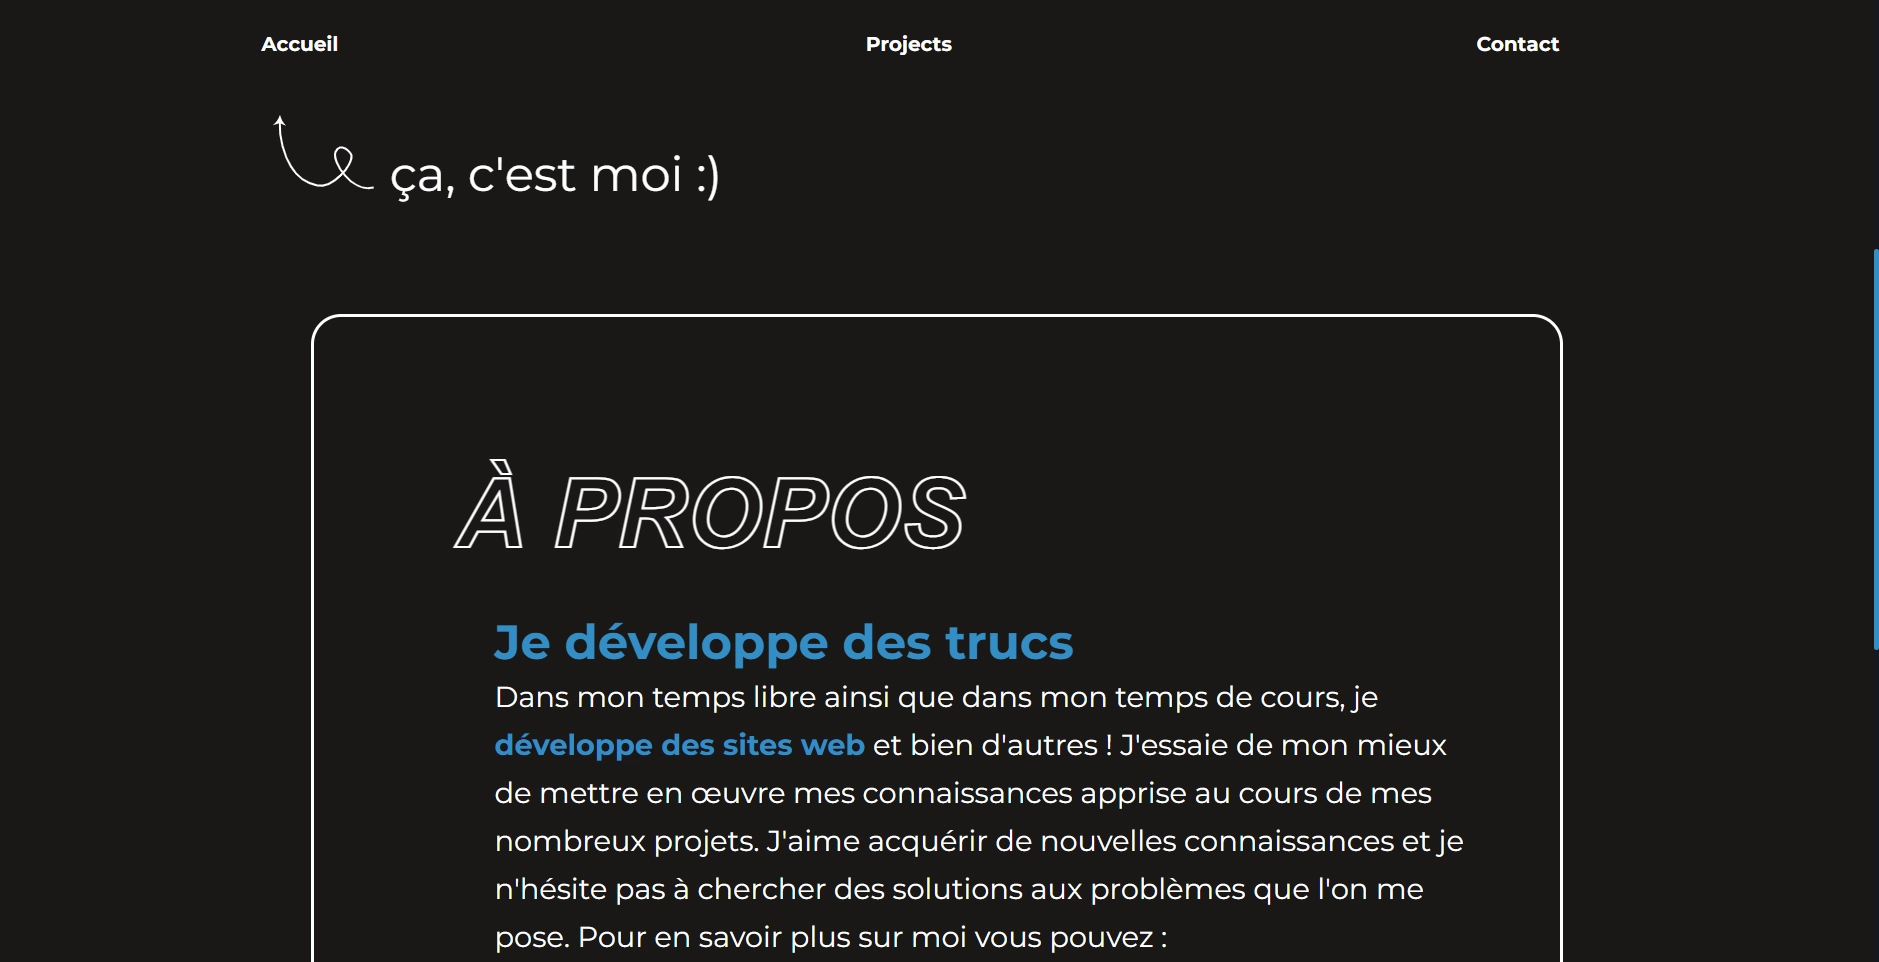
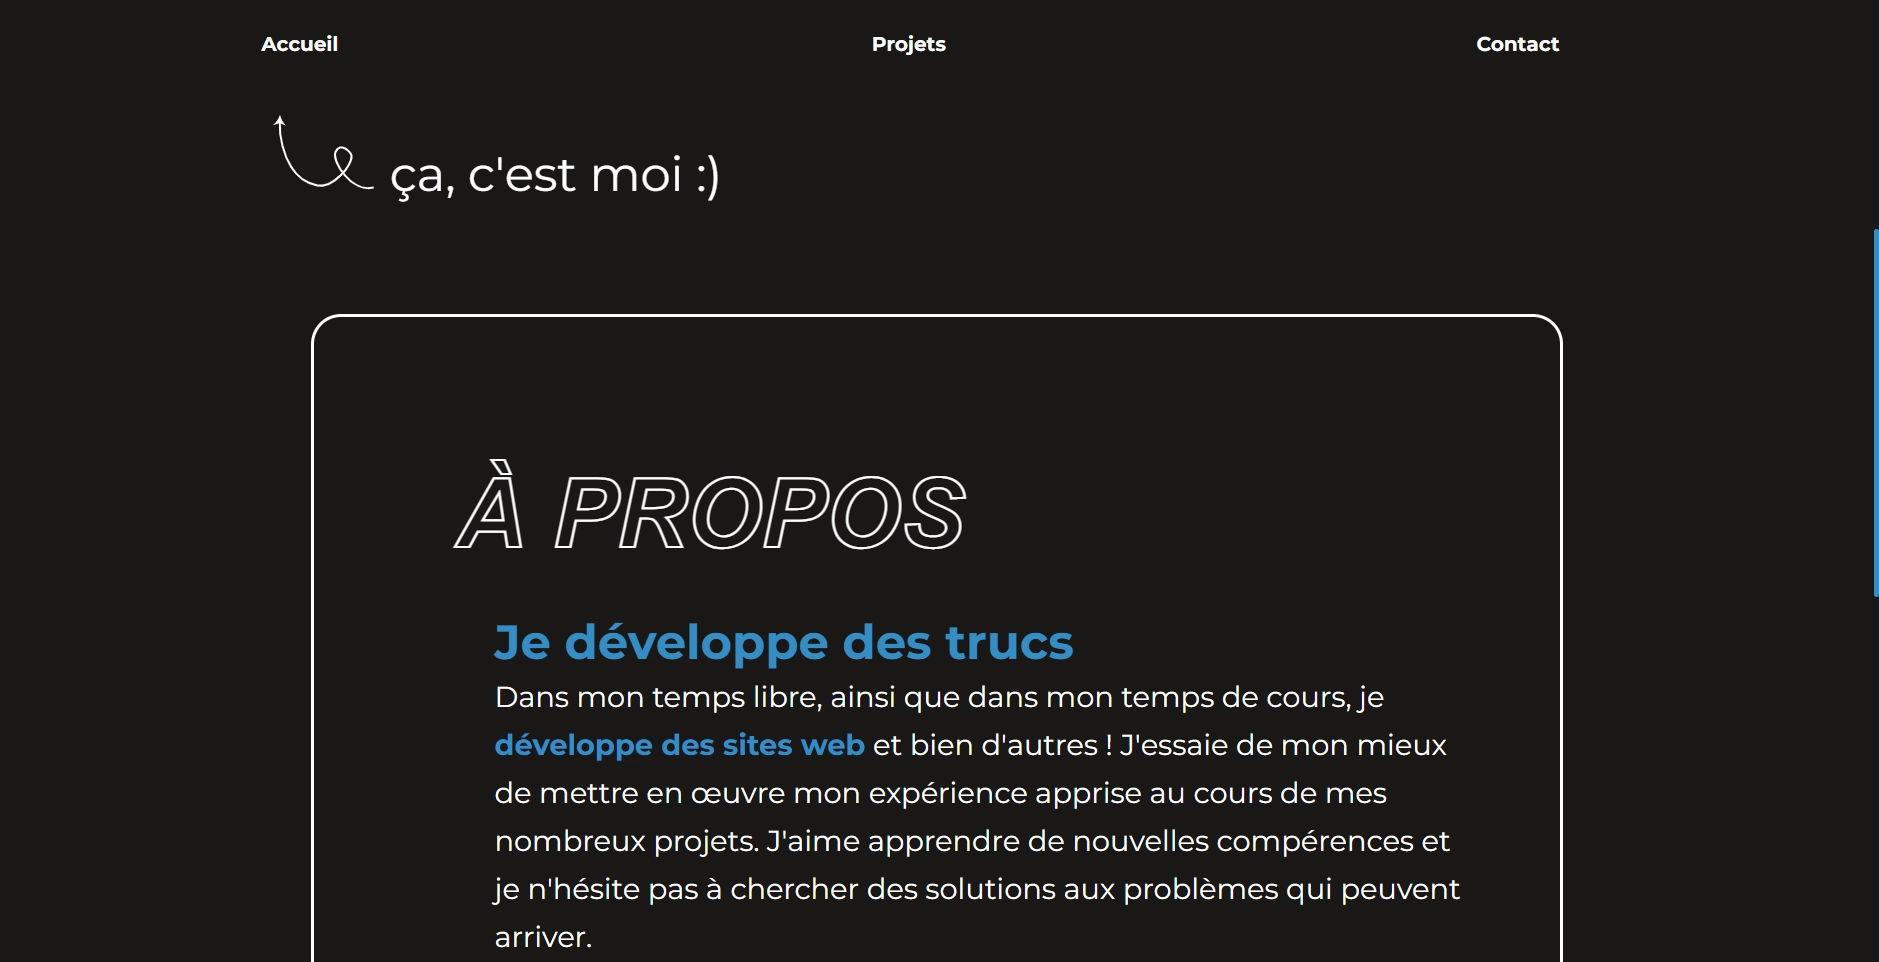
Quelques fautes corrigées

diff --git a/js/data.js b/js/data.js
@@ -1,7 +1,7 @@
 const projects = {
     "portfolio": {
         "nom": "Portfolio",
-        "desc": "Afin de montrer ce dont je suis capable en développement web, j'ai décidé de créer ce portfolio. Il est hébergé sur GitHub et est fait entièrement avec mes compétences de <span class=\"bold_color\">HTML, JS et CSS</span>. A partir d'une base de données en JavaScript, je peux récupérer les informations nécessaires pour générer des pages avec du JS afin de n'avoir qu'à créer qu'une seule page web pour tous les projets.",
+        "desc": "Afin de montrer ce dont je suis capable en développement web, j'ai décidé de créer ce portfolio. Il est hébergé sur GitHub et est fait entièrement avec mes compétences de <span class=\"bold_color\">HTML, JS et CSS</span>. A partir d'une base de données en JavaScript, je peux récupérer les informations nécessaires pour générer des pages avec du JS afin de n'avoir qu'à créer une seule page web pour tous les projets.",
         "lien": "",
         "img": "<h2 class = \"sous_titre\">Galerie</h2><div class = \"grid_gal\"><img src = \"../img/portfolio/index_capt.webp\" alt = \"Page d'accueil du site\" width = \"100%\"><img src = \"../img/portfolio/filtre_capt.webp\" alt = \"Filtrage des projets\" width = \"100%\"><img src = \"../img/portfolio/projet_capt.webp\" alt = \"Exemple d'une page de projet\" width = \"100%\"></div>",
         "link_res": "",
@@ -10,7 +10,7 @@ const projects = {
 
     "luxiemds": {
         "nom": "Light The Way • Luxiem Dating Sim",
-        "desc": "Au cours de l'été 2022 et jusqu'à fin avril 2023, je me suis portée volontaire au sein de l'équipe <span class=\"bold_color\">Simporiem Studios</span> en tant que programmeuse. Le jeu est un projet anglophone de jeu vidéo créé avec <span class=\"bold_color\">Ren'Py</span>, un moteur de jeu en langage Python. <br>Ce jeu a été pensé et initialement créé pour l'anniversaire de la mise au monde d'un groupe de talents de l'entreprise Nijisanji : Luxiem. <br>Il s'agit d'un jeu fait par des fans pour les fans.",
+        "desc": "Au cours de l'été 2022 et jusqu'à fin avril 2023, je me suis portée volontaire au sein de l'équipe <span class=\"bold_color\">Simporiem Studios</span> en tant que programmeuse. Il s'agit d'un projet anglophone de jeu vidéo créé avec <span class=\"bold_color\">Ren'Py</span>, un moteur de jeu basé sur du Python. <br>Ce jeu a été pensé et initialement créé pour le premier anniversaire d'un groupe de talents de l'entreprise Nijisanji : Luxiem. <br>Il s'agit d'un jeu fait par des fans pour les fans.",
         "lien": "<div class = \"grid_emb\"><iframe width=\"560\" height=\"315\" src=\"https://www.youtube.com/embed/rXX2gnxzVCg\" frameborder=\"0\" allow=\" autoplay; picture-in-picture\" allowfullscreen></iframe><p>Clip musical promotionnel</p></div>",
         "img": "<h2 class = \"sous_titre\">Galerie</h2><div class = \"grid_gal\"><img src = \"../img/img_lds/promo_art.webp\" alt = \"Art Promotionnel de la version de démo du jeu\" width = \"100%\"><img src = \"../img/img_lds/screenshot0002.webp\" alt = \"Menu principal du jeu\" width = \"100%\"><img src = \"../img/img_lds/screenshot0119.webp\" alt = \"Screenshot de la galerie du jeu\" width = \"100%\"><img src = \"../img/img_lds/screenshot0159.webp\" alt = \"Exemple de dialogue du jeu\" width = \"100%\"></div><p class=\"legende\">Source : Simporiem Studios</p>",
         "link_res": "",

diff --git a/index.html b/index.html
@@ -13,7 +13,7 @@
 <header>
     <div>
         <p><a href="index.html" class="link_head">Accueil</a></p>
-        <p><a href="pages/projets.html" class="link_head">Projects</a></p>
+        <p><a href="pages/projets.html" class="link_head">Projets</a></p>
         <p><a href="pages/contact.html" class="link_head">Contact</a></p>
     </div>
 </header>
@@ -31,11 +31,11 @@
         <div class="a_propos">
             <h2>À PROPOS</h2>
             <p><span class="bold_color_ap">Je développe des trucs</span><br>
-                Dans mon temps libre ainsi que dans mon temps de cours, je <span class="bold_color">développe des sites
+                Dans mon temps libre, ainsi que dans mon temps de cours, je <span class="bold_color">développe des sites
                     web</span> et bien d'autres !
-                J'essaie de mon mieux de mettre en œuvre mes connaissances apprise au cours de mes nombreux projets.
-                J'aime acquérir de nouvelles connaissances et je n'hésite pas à chercher des solutions aux problèmes que
-                l'on me pose. Pour en savoir plus sur moi vous pouvez : </p>
+                J'essaie de mon mieux de mettre en œuvre mon expérience apprise au cours de mes nombreux projets.
+                J'aime apprendre de nouvelles compérences et je n'hésite pas à chercher des solutions aux problèmes qui
+                peuvent arriver. <br>Pour en savoir plus sur moi vous pouvez : </p>
             <div class="liens">
                 <a href="https://drive.google.com/file/d/1T1KsWJxUdlWN9g6qiNEpy1xDbeUh-3ol/view" target="_blank"
                     class="lien_index">Télécharger
@@ -49,7 +49,8 @@
                 <a href="https://www.linkedin.com/in/clélia-landru-a70303265/" target="_blank"><img
                         src="img/svg/linkedin.svg" alt="logo Linkedin" width="5%"></a>
             </div>
-            <p>@ 2023 | © Copyright Clélia Landru. Tous droits réservés | <a href="pages/mentions_legales.html" class="lien_e">Mentions légales</a></p>
+            <p>@ 2023 | © Copyright Clélia Landru. Tous droits réservés | <a href="pages/mentions_legales.html"
+                    class="lien_e">Mentions légales</a></p>
         </div>
     </main>
 </body>

diff --git a/pages/contact.html b/pages/contact.html
@@ -13,7 +13,7 @@
 <header>
     <div>
         <p><a href="../index.html" class="link_head">Accueil</a></p>
-        <p><a href="projets.html" class="link_head">Projects</a></p>
+        <p><a href="projets.html" class="link_head">Projets</a></p>
         <p><a href="contact.html" class="link_head">Contact</a></p>
     </div>
 </header>

diff --git a/pages/mentions_legales.html b/pages/mentions_legales.html
@@ -13,7 +13,7 @@
 <header>
     <div>
         <p><a href="../index.html" class="link_head">Accueil</a></p>
-        <p><a href="projets.html" class="link_head">Projects</a></p>
+        <p><a href="projets.html" class="link_head">Projets</a></p>
         <p><a href="contact.html" class="link_head">Contact</a></p>
     </div>
 </header>

diff --git a/pages/projets.html b/pages/projets.html
@@ -14,7 +14,7 @@
 <header>
     <div>
         <p><a href="../index.html" class="link_head">Accueil</a></p>
-        <p><a href="projets.html" class="link_head">Projects</a></p>
+        <p><a href="projets.html" class="link_head">Projets</a></p>
         <p><a href="contact.html" class="link_head">Contact</a></p>
     </div>
 </header>

diff --git a/pages/view_project.html b/pages/view_project.html
@@ -15,7 +15,7 @@
 <header>
     <div>
         <p><a href="../index.html" class="link_head">Accueil</a></p>
-        <p><a href="projets.html" class="link_head">Projects</a></p>
+        <p><a href="projets.html" class="link_head">Projets</a></p>
         <p><a href="contact.html" class="link_head">Contact</a></p>
     </div>
 </header>
